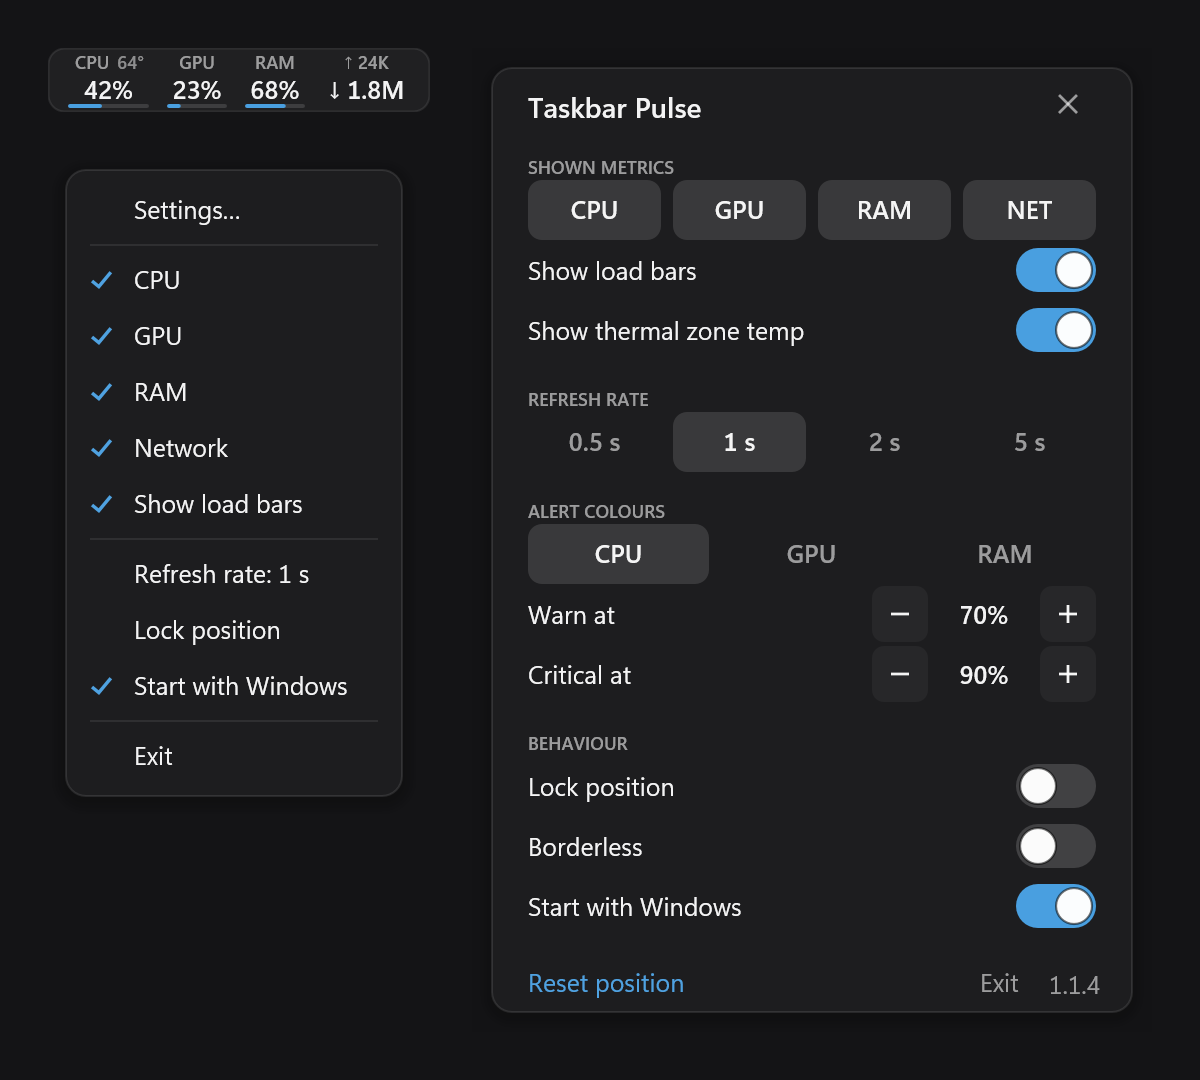
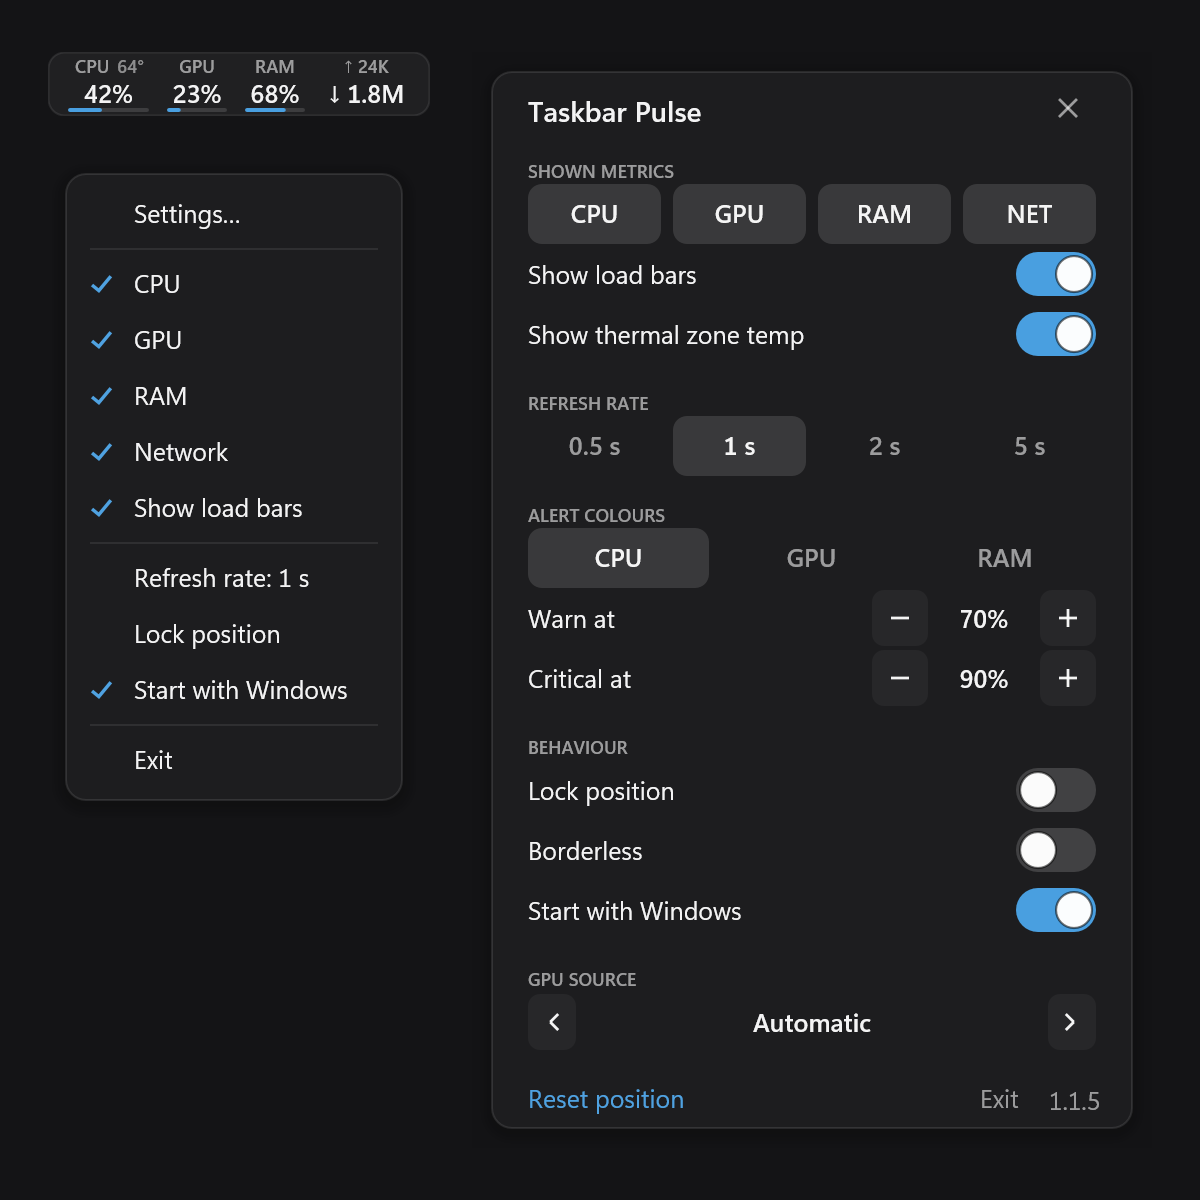
Fix direction and anchor placement; release 1.1.5

diff --git a/src/main.cpp b/src/main.cpp
@@ -66,7 +66,7 @@ using Microsoft::WRL::ComPtr;
 // Small helpers
 
 static constexpr wchar_t kAppName[] = L"Taskbar Pulse";
-static constexpr wchar_t kVersion[] = L"1.1.4";
+static constexpr wchar_t kVersion[] = L"1.1.5";
 static constexpr wchar_t kWndClass[] = L"TaskbarPulse.Widget";
 
 static const UINT WM_APP_SAMPLE = WM_APP + 10;
@@ -1443,6 +1443,7 @@ struct App {
   int dragMoved = 0;
   bool widgetRightOfTray = false;  // derived from the tray position; default LTR
   bool anchorMissing = false;
+  bool feedFallbackLogged = false;
 
   HWND menuHwnd = nullptr;
   bool menuOpen = false;
@@ -2052,39 +2053,49 @@ static void FindTaskbar(App& app) {
 
 static int CollectFeeds(HWND taskbar, const RECT& bar, RECT out[2]) {
   static const wchar_t* kClasses[] = {L"ShellFeedsTaskbarViewWindow", L"DynamicContent2"};
-  static HWND last[2] = {};
-  static int lastCount = -1;
+  static std::wstring lastSignature;
 
-  HWND found[2] = {};
-  const wchar_t* foundClass[2] = {};
+  struct Status {
+    const wchar_t* cls;
+    HWND hwnd;
+    RECT rect;
+    bool hasRect;
+    bool visible;
+    bool accepted;
+  } status[2]{};
+
+  std::wstring signature;
   int count = 0;
-  for (const wchar_t* cls : kClasses) {
+  for (int i = 0; i < 2; ++i) {
+    const wchar_t* cls = kClasses[i];
     HWND feed = FindWindowExW(taskbar, nullptr, cls, nullptr);
-    if (!feed || !IsWindowVisible(feed)) continue;
-    RECT r{};
-    if (!GetWindowRect(feed, &r)) continue;
-    if (r.right <= r.left || r.bottom <= r.top) continue;
-    if (!(r.bottom > bar.top && r.top < bar.bottom)) continue;
-    out[count] = r;
-    found[count] = feed;
-    foundClass[count] = cls;
-    ++count;
+    status[i].cls = cls;
+    status[i].hwnd = feed;
+    status[i].visible = feed && IsWindowVisible(feed);
+    status[i].hasRect = feed && GetWindowRect(feed, &status[i].rect);
+    status[i].accepted =
+        status[i].visible && status[i].hasRect && status[i].rect.right > status[i].rect.left &&
+        status[i].rect.bottom > status[i].rect.top &&
+        status[i].rect.bottom > bar.top && status[i].rect.top < bar.bottom;
+    wchar_t part[96];
+    swprintf_s(part, L"%p:%d:%d:%d;", (void*)feed, status[i].visible ? 1 : 0,
+               status[i].hasRect ? 1 : 0, status[i].accepted ? 1 : 0);
+    signature += part;
+    if (status[i].accepted) out[count++] = status[i].rect;
   }
 
-  bool changed = count != lastCount;
-  for (int i = 0; i < count && !changed; ++i)
-    if (found[i] != last[i]) changed = true;
-  if (changed) {
-    if (count == 0) {
-      Log(L"feeds: none bar=%d,%d,%d,%d", bar.left, bar.top, bar.right, bar.bottom);
-    } else {
-      for (int i = 0; i < count; ++i)
-        Log(L"feeds: %ls hwnd=%p rect=%d,%d,%d,%d visible=1 bar=%d,%d,%d,%d", foundClass[i],
-            found[i], out[i].left, out[i].top, out[i].right, out[i].bottom, bar.left, bar.top,
+  if (signature != lastSignature) {
+    for (const Status& s : status) {
+      if (!s.hwnd) {
+        Log(L"feeds: %ls absent bar=%d,%d,%d,%d", s.cls, bar.left, bar.top, bar.right, bar.bottom);
+      } else {
+        Log(L"feeds: %ls hwnd=%p rect=%d,%d,%d,%d rectValid=%d visible=%d accepted=%d bar=%d,%d,%d,%d",
+            s.cls, s.hwnd, s.rect.left, s.rect.top, s.rect.right, s.rect.bottom,
+            s.hasRect ? 1 : 0, s.visible ? 1 : 0, s.accepted ? 1 : 0, bar.left, bar.top,
             bar.right, bar.bottom);
+      }
     }
-    for (int i = 0; i < 2; ++i) last[i] = i < count ? found[i] : nullptr;
-    lastCount = count;
+    lastSignature = signature;
   }
   return count;
 }
@@ -3337,6 +3348,11 @@ static void UpdatePosition(App& app, bool force) {
     }
     L.h = placed.h;
     L.offsetY = placed.offsetY;
+    if (placed.feedFallback && !app.feedFallbackLogged) {
+      Log(L"feeds: candidate outside bar; using tray anchor");
+      app.feedFallbackLogged = true;
+    }
+    if (!placed.feedFallback) app.feedFallbackLogged = false;
     x = placed.x;
     y = placed.y;
     changed =

diff --git a/tests/anchor_test.cpp b/tests/anchor_test.cpp
@@ -1,5 +1,4 @@
 // Pins the taskbar placement arithmetic without Windows or Direct2D.
-// Built and run by build.ps1.
 
 #include "../src/taskbar_anchor.h"
 #include <cstdio>
@@ -50,6 +49,11 @@ void ExpectNoAnchor(const char* name, const anchor::Input& in) {
   Check(!out.result && out.reason == anchor::Reason::NoAnchor, name);
 }
 
+void ExpectFeedFallback(const char* name, const anchor::Input& in, bool expected) {
+  const anchor::Outcome out = anchor::Compute(in);
+  Check(out.result && out.result->feedFallback == expected, name);
+}
+
 }  // namespace
 
 int main() {
@@ -74,11 +78,11 @@ int main() {
   Expect("negative-origin bar",
          Make(Box{-1920, 0, 0, 48}, Box{-120, 0, 0, 48}, true, 228, 32, 6), -354, 8, 32, 0);
 
-  // Known 1.1.4 clipping: the max clamp wins on a 30 px bar.
+  // Clips on a 30 px bar: the max clamp wins.
   Expect("small bar clips", Make(Box{0, 0, 1920, 30}, Box{1800, 0, 1920, 30}, true, 228, 32, 6),
          1566, -4, 32, 0);
 
-  // Known 1.1.4 clamp inversion: max wins when the widget is wider than the bar.
+  // Max wins when the widget is wider than the bar.
   Expect("widget wider than bar",
          Make(Box{0, 0, 200, 48}, Box{100, 0, 200, 48}, true, 300, 32, 6), -104, 8, 32, 0);
   Expect("widget exactly fits",
@@ -93,10 +97,15 @@ int main() {
   Expect("192 dpi values",
          Make(Box{0, 0, 3840, 96}, Box{3600, 0, 3840, 96}, true, 456, 64, 12), 3132, 16, 64, 0);
 
+  Expect("gap 0", Make(Box{0, 0, 1920, 48}, Box{1800, 0, 1920, 48}, true, 228, 32, 0), 1572, 8,
+         32, 0);
   Expect("gap 40", Make(Box{0, 0, 1920, 48}, Box{1800, 0, 1920, 48}, true, 228, 32, 40), 1532, 8,
          32, 0);
   Expect("gap 4000 hits min clamp",
          Make(Box{0, 0, 1920, 48}, Box{1800, 0, 1920, 48}, true, 228, 32, 4000), 4, 8, 32, 0);
+  Expect("upgrade borderless offset 4000",
+         Make(Box{0, 0, 1920, 48}, Box{1800, 0, 1920, 48}, true, 228, 32, 4000, true, 8), 4, 4,
+         40, 4);
 
   Expect("negative gap clamped",
          Make(Box{0, 0, 1920, 48}, Box{1800, 0, 1920, 48}, true, 228, 32, -100), 1572, 8, 32, 0);
@@ -123,6 +132,7 @@ int main() {
     in.feeds[0] = Box{600, 0, 800, 48};
     in.feedsCount = 1;
     Expect("feeds LTR", in, 494, 8, 32, 0);
+    ExpectFeedFallback("feeds LTR not fallback", in, false);
     in.feeds[1] = Box{700, 0, 800, 48};
     in.feedsCount = 2;
     Expect("feeds LTR inboard", in, 594, 8, 32, 0);
@@ -130,6 +140,7 @@ int main() {
     in.feeds[1] = Box{};
     in.feedsCount = 1;
     Expect("feeds LTR fallback", in, 694, 8, 32, 0);
+    ExpectFeedFallback("feeds LTR fallback flagged", in, true);
   }
   {
     anchor::Input in =
@@ -137,6 +148,7 @@ int main() {
     in.feeds[0] = Box{200, 0, 400, 48};
     in.feedsCount = 1;
     Expect("feeds RTL", in, 406, 8, 32, 0, true);
+    ExpectFeedFallback("feeds RTL not fallback", in, false);
     in.feeds[1] = Box{200, 0, 300, 48};
     in.feedsCount = 2;
     Expect("feeds RTL inboard", in, 306, 8, 32, 0, true);
@@ -144,6 +156,7 @@ int main() {
     in.feeds[1] = Box{};
     in.feedsCount = 1;
     Expect("feeds RTL fallback", in, 206, 8, 32, 0, true);
+    ExpectFeedFallback("feeds RTL fallback flagged", in, true);
   }
 
   Expect("vertical preserved",
@@ -159,6 +172,10 @@ int main() {
   Check(anchor::DragGap(0, 100, 100, 1.0f, false) == 0, "zero drag delta");
   Check(anchor::DragGap(4000, 100, 1000, 1.0f, true) == 4000, "drag clamps at 4000");
   Check(anchor::DragGap(0, 100, 89, 1.25f, false) == 9, "drag rounds at 125%");
+  const int readBack = anchor::DragGap(0, 100, 90, 1.0f, false);
+  Expect("drag gap reproduces x",
+         Make(Box{0, 0, 1920, 48}, Box{1800, 0, 1920, 48}, true, 228, 32, readBack), 1562, 8, 32,
+         0);
 
   std::printf("anchor tests: %d checks, %d failures\n", g_checks, g_failures);
   return g_failures == 0 ? 0 : 1;

diff --git a/src/taskbar_anchor.h b/src/taskbar_anchor.h
@@ -33,6 +33,7 @@ struct Result {
   int h = 0;
   int offsetY = 0;
   bool widgetRightOfTray = false;
+  bool feedFallback = false;
 };
 
 enum class Reason { None, NoAnchor };
@@ -79,6 +80,7 @@ inline Outcome Compute(const Input& in) {
 
     const int count = std::min(2, std::max(0, in.feedsCount));
     int chosen = -1;
+    bool feedFallback = false;
     if (!r.widgetRightOfTray) {
       for (int i = 0; i < count; ++i)
         if (in.feeds[i].left <= in.tray.left &&
@@ -86,7 +88,10 @@ inline Outcome Compute(const Input& in) {
           chosen = i;
       if (chosen >= 0) {
         const int candidate = in.feeds[chosen].left - gapPx - in.widgetW;
-        if (candidate >= minX && candidate <= maxX) x = candidate;
+        if (candidate >= minX && candidate <= maxX)
+          x = candidate;
+        else
+          feedFallback = true;
       }
     } else {
       for (int i = 0; i < count; ++i)
@@ -95,18 +100,22 @@ inline Outcome Compute(const Input& in) {
           chosen = i;
       if (chosen >= 0) {
         const int candidate = in.feeds[chosen].right + gapPx;
-        if (candidate >= minX && candidate <= maxX) x = candidate;
+        if (candidate >= minX && candidate <= maxX)
+          x = candidate;
+        else
+          feedFallback = true;
       }
     }
+    r.feedFallback = feedFallback;
     r.x = x;
     r.y = in.bar.top + (barH - h) / 2;
   } else {
-    // Deliberately preserved from 1.1.4; vertical taskbars are a 1.2 feature.
+    // Vertical taskbars are not supported; this is the old arithmetic, not a real layout.
     r.y = in.tray.bottom + gapPx;
     r.x = in.bar.left + (in.bar.right - in.bar.left - in.widgetW) / 2;
   }
 
-  // Keep 1.1.4's clamp order: the max clamp wins when the widget is wider than the bar.
+  // The max clamp wins when the widget is wider than the bar, on purpose.
   if (r.x < minX) r.x = minX;
   if (r.x > maxX) r.x = maxX;
   if (r.y < minY) r.y = minY;

diff --git a/README.md b/README.md
@@ -2,7 +2,7 @@
 
 <p align="center">
   <b>CPU, GPU, memory, network and temperature, in your taskbar.</b><br>
-  A 305 KB native widget. No installer, no runtime, no telemetry.
+  A 309 KB native widget. No installer, no runtime, no telemetry.
 </p>
 
 <p align="center">
@@ -54,7 +54,7 @@ Measured on a laptop with Windows 11 26H2 at 1920×1200 and 125% scaling, one mi
 
 | | Taskbar Pulse | TrafficMonitor Lite 1.86 |
 | --- | --- | --- |
-| Download | **305 KB, one exe** | 1.92 MB exe |
+| Download | **309 KB, one exe** | 1.92 MB exe |
 | Private memory | **about 9 MB** | 12.0 MB |
 | CPU at 1 s | **about 0.4% of one core** | 0.63% |
 | Temperature | **ACPI thermal zone** | none |
@@ -75,7 +75,7 @@ Settings apply live. Tab moves between controls, arrows change a value, Space or
 
 ## Compatibility
 
-Windows 11 22H2 to 26H2 on x64. Windows 10 1809 and later should work but is untested. No ARM64 build.
+Windows 11 22H2 to 26H2 on x64. Windows 10 1809 and later should work but is untested; the Windows 10 weather-button handling has not been run on a Windows 10 machine. No ARM64 build.
 
 GPU usage comes from the WDDM counters. Some VMs and RDP sessions do not expose them and show a dash.
 
@@ -94,7 +94,7 @@ Visual Studio with the C++ toolset and the Windows 11 SDK.
 .\build.ps1
 ```
 
-The output is `TaskbarPulse.exe`, statically linked. The script also runs the contrast regression test. Every push builds in GitHub Actions, and a `v*` tag publishes a release with the exe and SHA-256.
+The output is `TaskbarPulse.exe`, statically linked. The script also runs the contrast and anchor regression tests. Every push builds in GitHub Actions, and a `v*` tag publishes a release with the exe and SHA-256.
 
 ## License
 

diff --git a/DESIGN.md b/DESIGN.md
@@ -28,7 +28,7 @@ ENERGY 2, RHYTHM 2, MOTION 1. Quiet by default, sharp when a threshold fires.
 
 ## Constraints
 
-- Never wider than the free space left of the notification area unless the user drags it there.
+- Never wider than the free space beside the notification area unless the user drags it there.
 - Never cover taskbar buttons by design. The overlay is a compromise Windows 11 forces, and the README says so.
 - One accent moment per surface. In Settings the accent lives on the switches, the reset link and the keyboard focus ring, nowhere else.
 - Accent-derived text and check marks stay at 4.5:1 against their surface; accent fills and focus rings at 3:1. Tint only as far as the ratio requires, and use the neutral text color when the accent has no hue.

diff --git a/CHANGELOG.md b/CHANGELOG.md
@@ -1,5 +1,13 @@
 # Changelog
 
+## 1.1.5
+
+- Right-to-left taskbars: the widget follows the tray to the correct side, and drag and the right-click menu mirror with it.
+- Windows 10 News & Interests / weather buttons are skipped, so the widget no longer covers them.
+- The silent 180 px tray guess is gone. A missing or invalid tray keeps the last valid position instead of moving the widget, and a negative offset is treated as zero at the tray edge.
+- Taskbar placement maths now lives in a tested helper, with anchor tests in the build.
+- Settings footer and tray tooltip report 1.1.5; the exe metadata and manifest are 1.1.5.0.
+
 ## 1.1.4
 
 - Fixed a render-surface failure path that could leave a null Direct2D target and crash the next paint.
